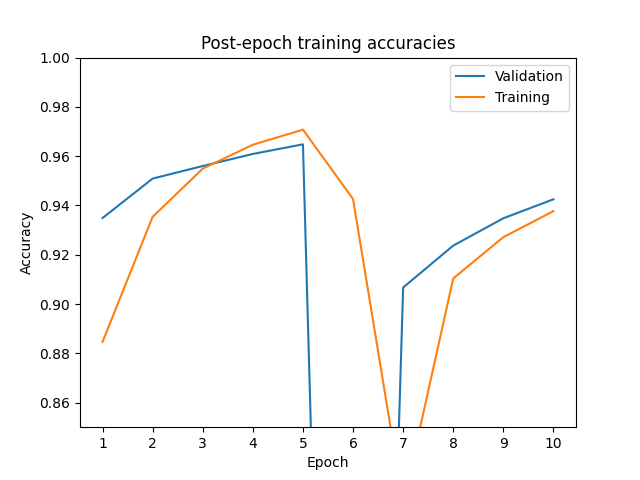
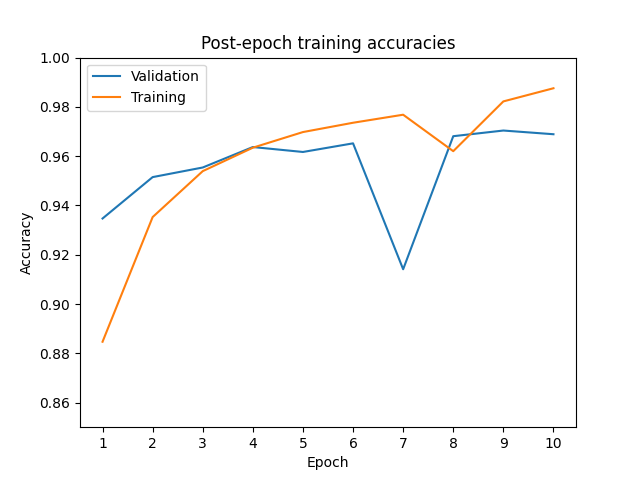
permnist training with different size nets

diff --git a/permnist.py b/permnist.py
@@ -25,7 +25,7 @@ plt.figure()
 plt.imshow(np.reshape(train_images[0], (28, 28)), cmap="gray")
 plt.axis("off")
 plt.title(f"Sample image of the digit '{train_labels[0]}'")
-plt.show()
+#plt.show()
 
 train_images = train_images.reshape((train_images.shape[0], -1, 1))
 test_images = test_images.reshape((test_images.shape[0], -1, 1))
@@ -35,7 +35,7 @@ plt.figure()
 plt.imshow(train_images[0].reshape(8, -1), cmap="gray")
 plt.axis("off")
 plt.title(f"Sample sequence of the digit '{train_labels[0]}' (reshaped to 98 x 8)")
-plt.show()
+#plt.show()
 
 perm = rng.permutation(train_images.shape[1])
 train_images = train_images[:, perm]
@@ -45,7 +45,7 @@ plt.figure()
 plt.imshow(train_images[0].reshape(8, -1), cmap="gray")
 plt.axis("off")
 plt.title(f"Permuted sequence of the digit '{train_labels[0]}' (reshaped to 98 x 8)")
-plt.show()
+#plt.show()
 
 X_train = train_images[:50000]
 X_valid = train_images[50000:]
@@ -71,7 +71,7 @@ lmu_layer = keras_lmu.LMU(
     memory_d=1,
     order=256,
     theta=n_pixels,
-    hidden_cell=tf.keras.layers.SimpleRNNCell(12),
+    hidden_cell=tf.keras.layers.SimpleRNNCell(212),
     hidden_to_memory=False,
     memory_to_memory=False,
     input_to_hidden=True,
@@ -96,7 +96,7 @@ do_training =  True
 batch_size = 100
 epochs = 10
 
-saved_weights_fname = "./psMNIST-weights-small.hdf5"
+saved_weights_fname = "./psMNIST-weights.hdf5"
 callbacks = [
     tf.keras.callbacks.ModelCheckpoint(
         filepath=saved_weights_fname, monitor="val_loss", verbose=1, save_best_only=True
